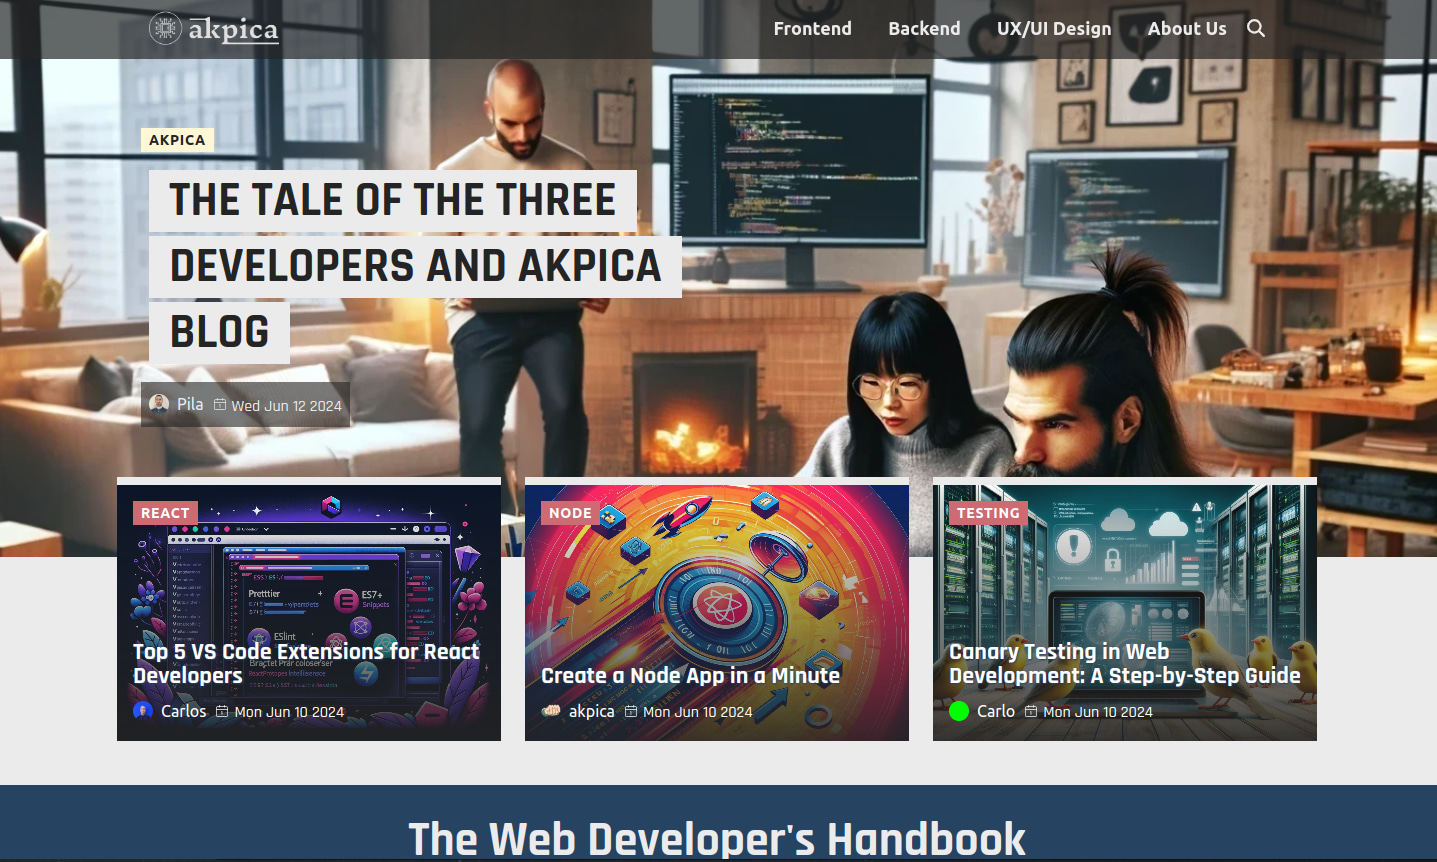
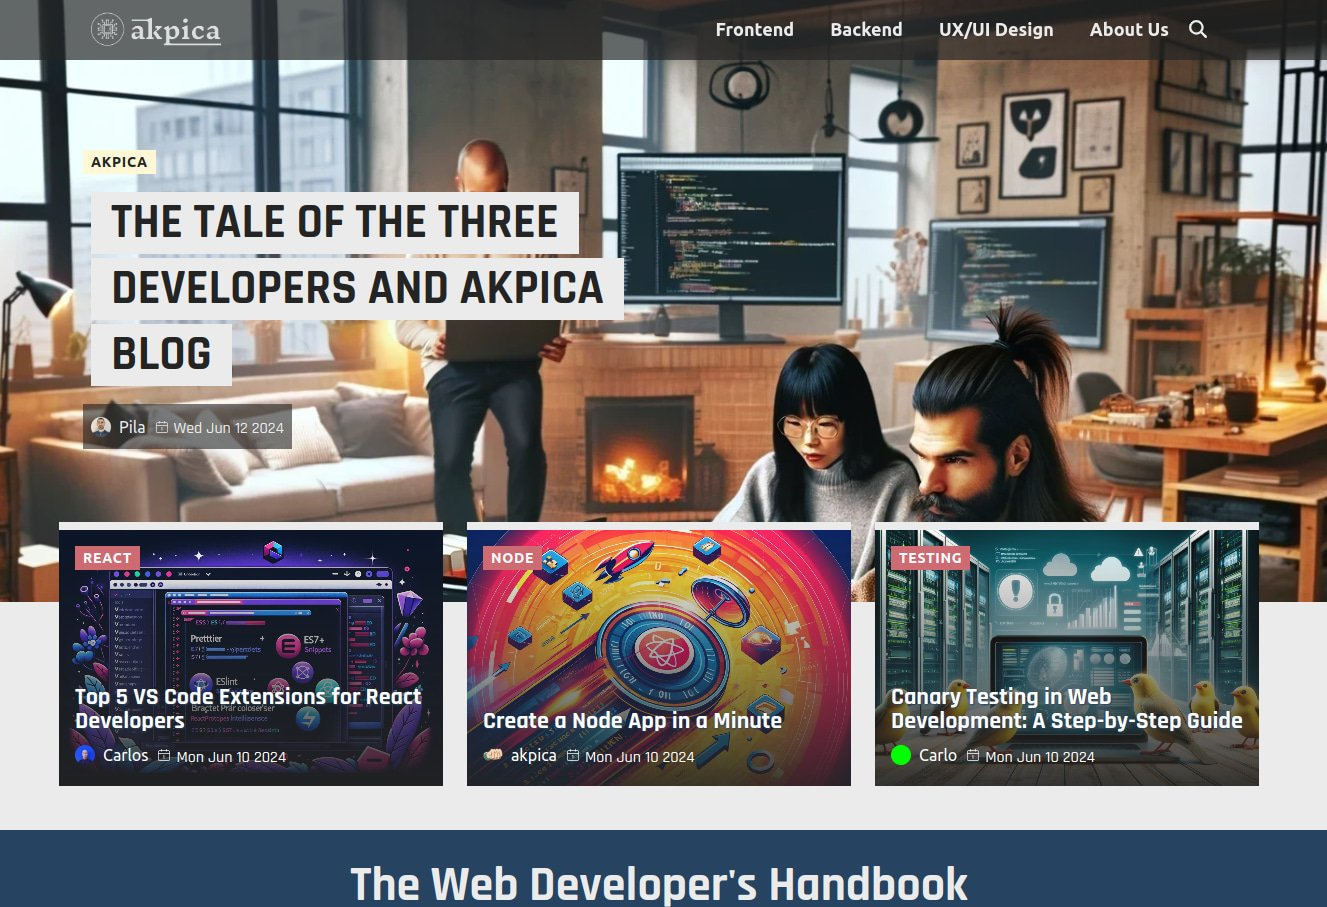
update darkmode bg color for proj-card and buttons

diff --git a/src/components/Projects/ProjectCard.jsx b/src/components/Projects/ProjectCard.jsx
@@ -16,13 +16,13 @@ const ProjectCard = ({
 }) => {
   const { darkMode } = useContext(DarkModeContext);
 
-  const btnStyle = `flex items-center justify-center gap-2 border-2 border-solid p-1 text-base font-[500] transition-all duration-200 ease-in-out hover:bg-green-light hover:text-blue-main hover:shadow-none active:bg-green-dark active:text-white-main active:shadow-none ${darkMode ? "bg-gray-dark text-white-main shadow-box-shadow-dark" : "bg-gray-main border-black-main shadow-box-shadow"}`;
+  const btnStyle = `flex items-center justify-center gap-2 border-2 border-solid p-1 text-base font-[500] transition-all duration-200 ease-in-out hover:bg-green-light hover:text-blue-main hover:shadow-none active:bg-green-dark active:text-white-main active:shadow-none ${darkMode ? " text-white-main shadow-box-shadow-dark" : "bg-gray-main border-black-main shadow-box-shadow"}`;
 
   return (
     <>
       <article>
         <div
-          className={`m-[10px] h-[430px] w-[300px] rounded-xl border-0 border-solid border-black-main ${darkMode ? "shadow-box-shadow-dark" : "shadow-box-shadow"}`}
+          className={`m-[10px] h-[430px] w-[300px] rounded-xl border-0 border-solid border-black-main ${darkMode ? "shadow-box-shadow-dark bg-gray-dark" : "bg-gray-main shadow-box-shadow"}`}
         >
           <a href={imageUrl} target="_blank">
             <img

diff --git a/src/components/Contact/ContactCard.jsx b/src/components/Contact/ContactCard.jsx
@@ -2,12 +2,12 @@ import { useContext } from "react";
 import { DarkModeContext } from "../../contexts/DarkModeContext.jsx";
 
 const ContactCard = ({ link, title, icon }) => {
-   const { darkMode } = useContext(DarkModeContext);
+  const { darkMode } = useContext(DarkModeContext);
 
   return (
     <>
       <div
-        className={`flex h-[50px] w-[50px] items-center justify-center border-2 border-solid text-[2rem] transition-all duration-100 ease-in-out hover:bg-green-light hover:text-blue-main hover:shadow-none ${darkMode ? "shadow-box-shadow-dark" : "border-black-main shadow-box-shadow"}`}
+        className={`flex h-[50px] w-[50px] items-center justify-center border-2 border-solid text-[2rem] transition-all duration-100 ease-in-out hover:bg-green-light hover:text-blue-main hover:shadow-none ${darkMode ? "shadow-box-shadow-dark bg-gray-dark" : "border-black-main bg-gray-main shadow-box-shadow"}`}
       >
         <a
           href={link}

diff --git a/src/components/SmallProj/SmallProjContainer.jsx b/src/components/SmallProj/SmallProjContainer.jsx
@@ -51,7 +51,7 @@ const SmallProj = () => {
         <a
           href="https://github.com/akiko-luka"
           target="_blank"
-          className={`m-2 flex w-56 items-center justify-center gap-[10px] border-[3px] border-solid p-2 text-base font-[500] transition-all duration-200 ease-in-out hover:bg-green-light hover:text-blue-main hover:shadow-none ${darkMode ? "shadow-box-shadow-dark border-gray-main" : "border-black-main bg-gray-main shadow-box-shadow"}`}
+          className={`m-2 flex w-56 items-center justify-center gap-[10px] border-[3px] border-solid p-2 text-base font-[500] transition-all duration-200 ease-in-out hover:bg-green-light hover:text-blue-main hover:shadow-none ${darkMode ? "shadow-box-shadow-dark border-gray-main bg-gray-dark" : "border-black-main bg-gray-main shadow-box-shadow"}`}
         >
           See more on my Github <BsGithub />
         </a>
